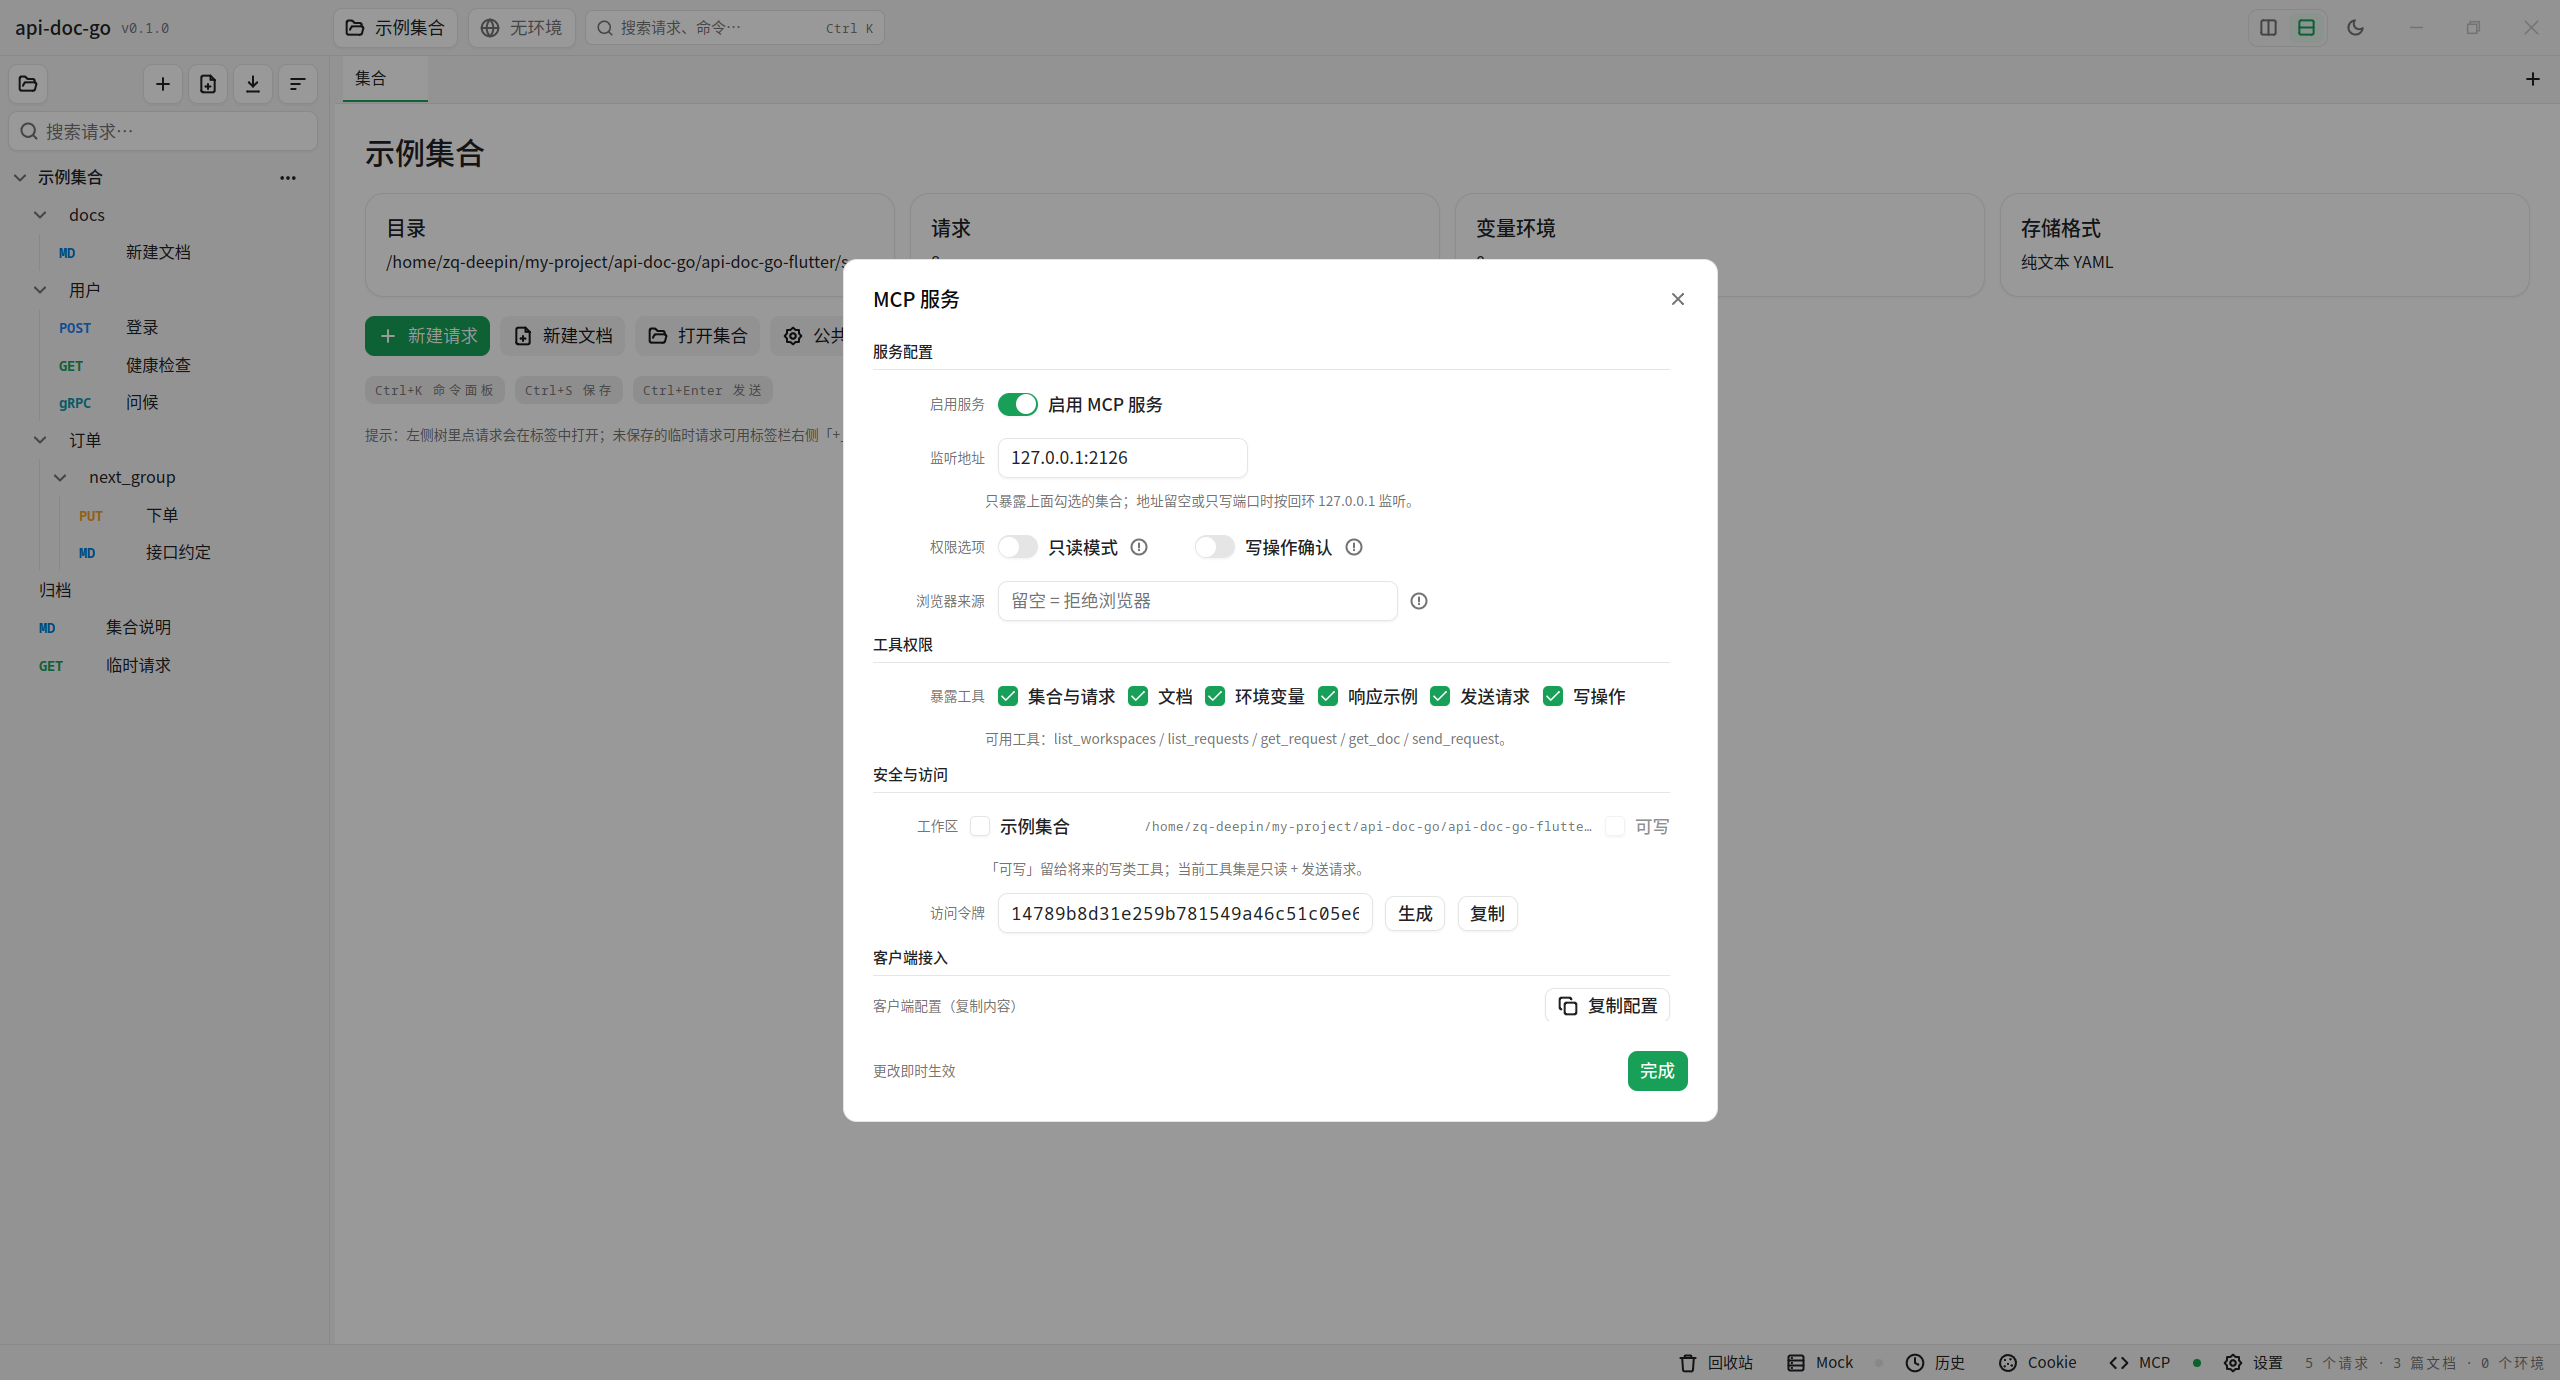
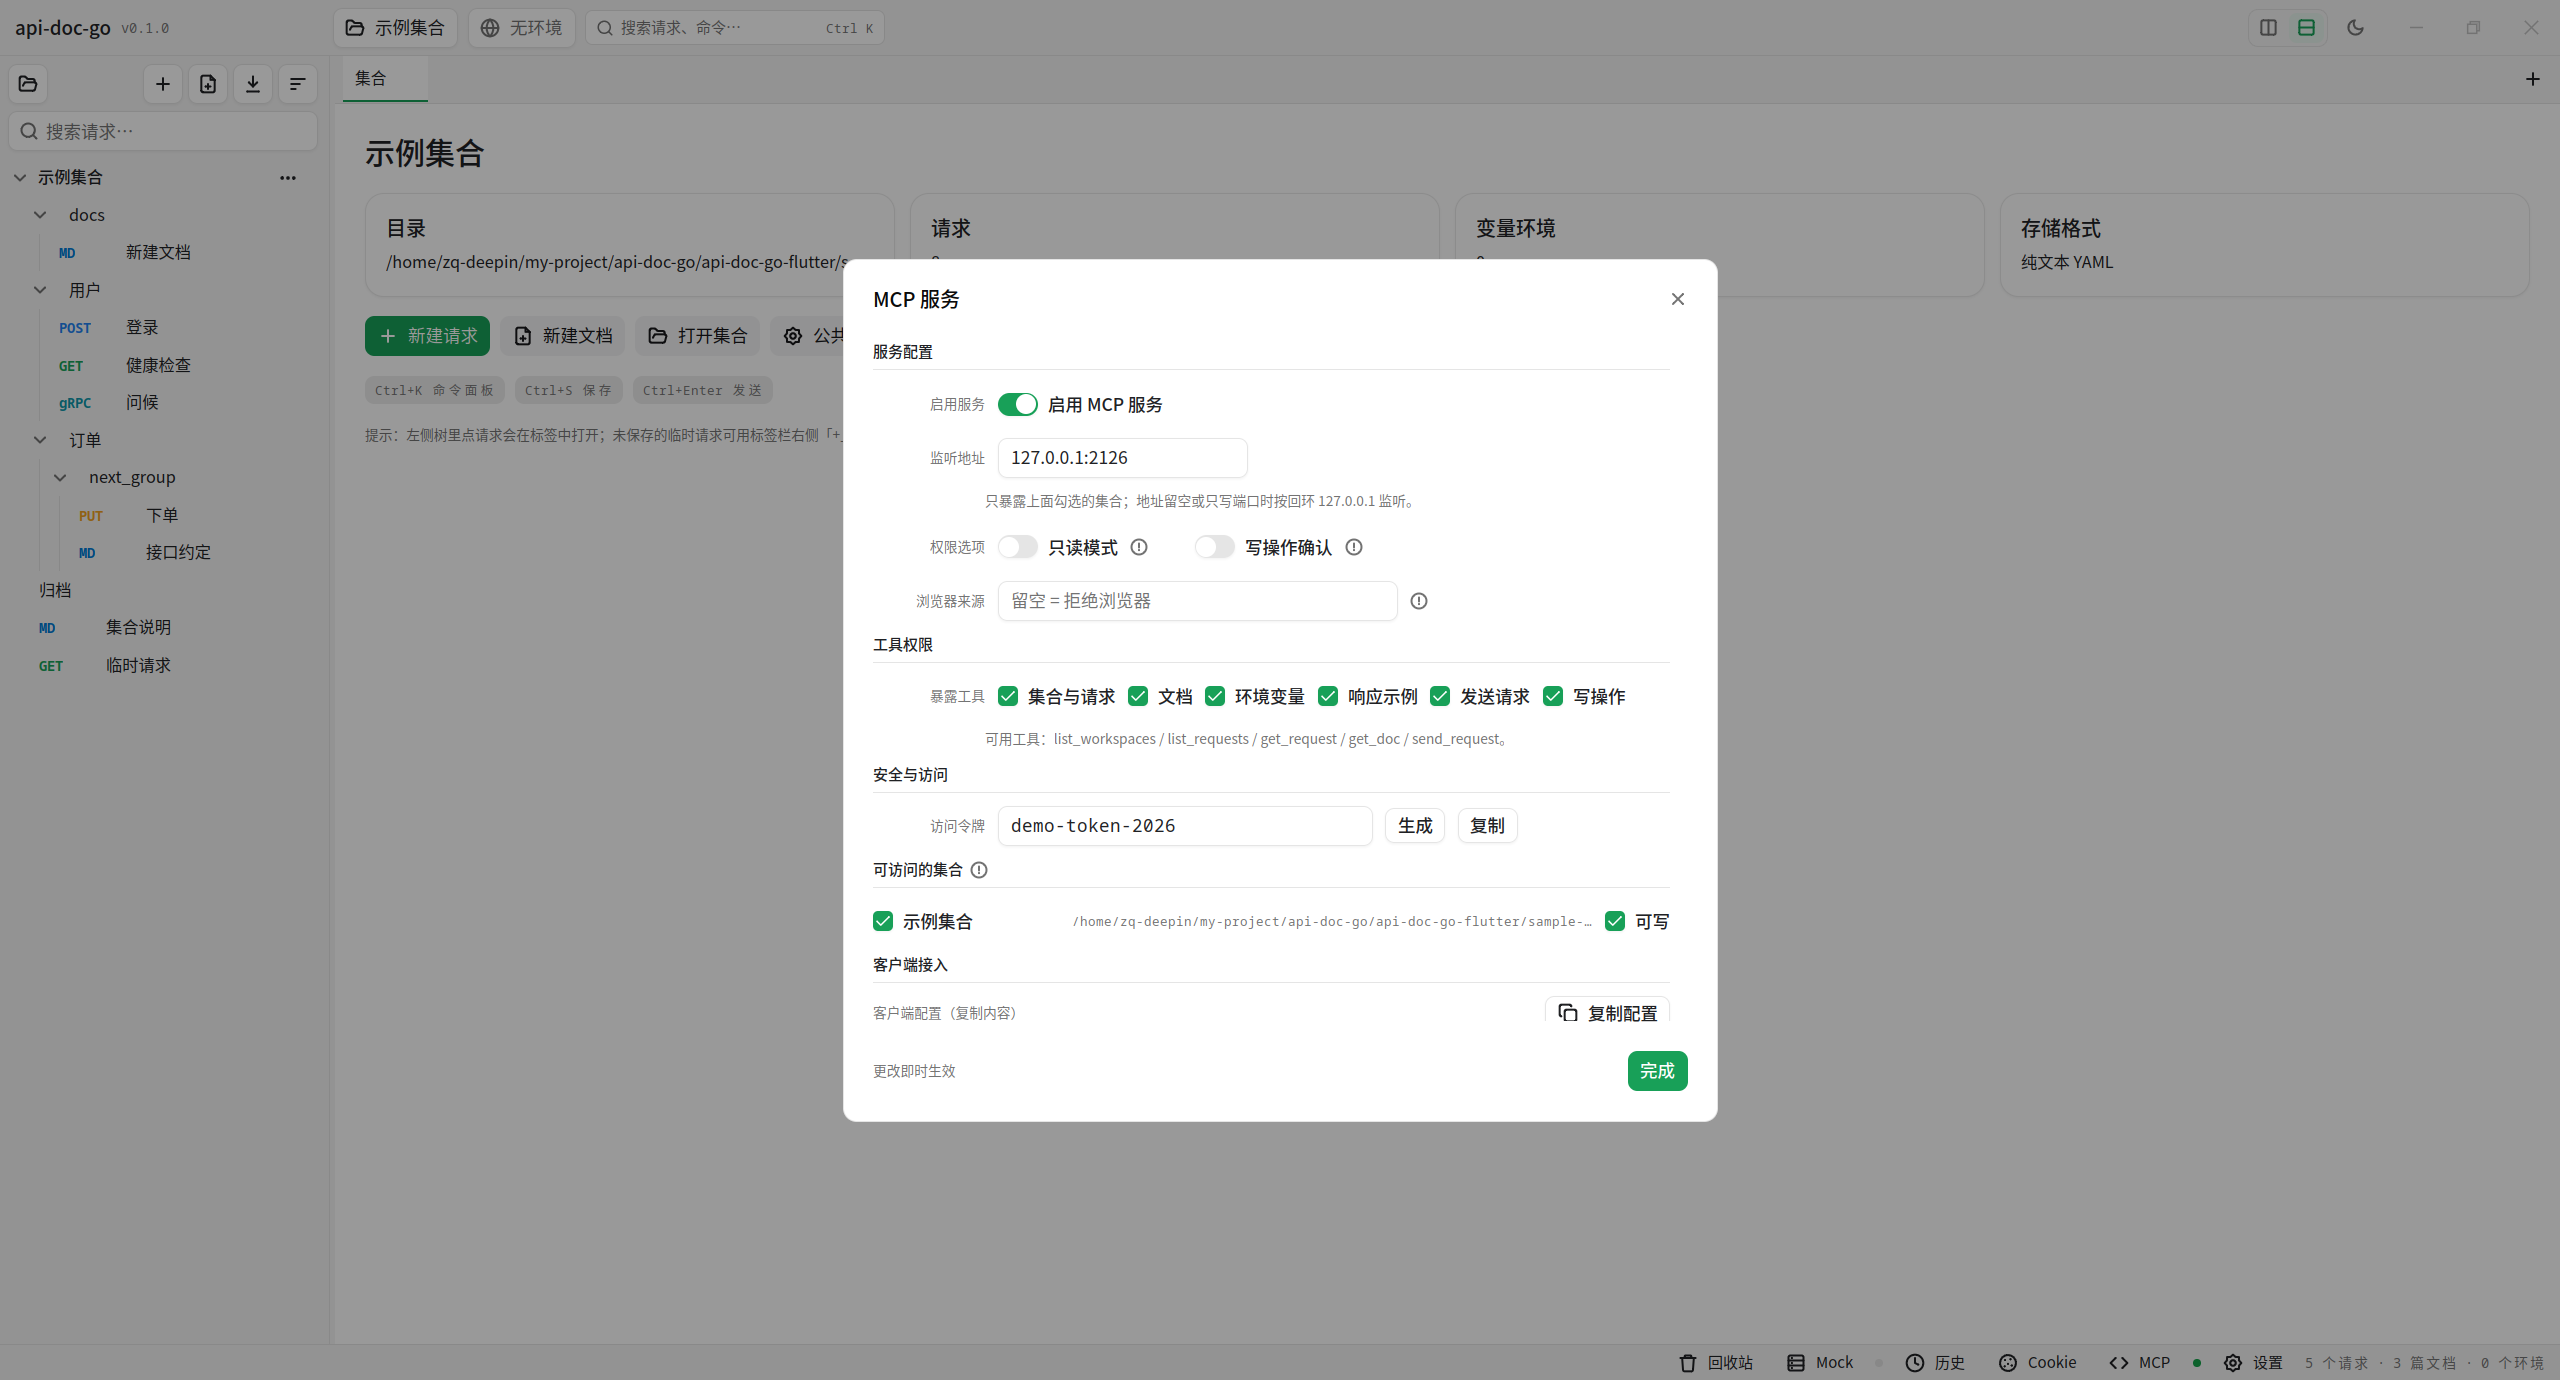
MCP 的集合列表拆成独立一栏：左对齐，「可写」说明进标题旁的 tips
原来集合列表嵌在「安全与访问」里，挂在 90px 标签列后面（缩进一大截），
「可写」的说明还占一行常驻文字。

- 新增 mcpSectionTitleTip：分节标题 + 标题旁 ⓘ（气泡承载整节说明）
- 「可访问的集合」独立成一栏（自己的标题 + 分隔线），插在「安全与访问」之后、
  「客户端接入」之前；列表每行从内容区最左开始，不再留标签列
- 名称列仍定宽 170（多集合时勾选框 / 名称 / 路径 / 可写各成一条竖线）
- 「可写留给将来的写类工具…」从常驻说明移到标题旁的 ⓘ
- 用例：TestMCPSettingsLayout 断言新标题「可访问的集合」与标题旁 tips 的 hit 标签；
  TestMCPConfigFitsPanel 的「不溢出弹窗」改为断言「完成」按钮没被顶出弹窗
  （滚动区里的文本按布局本来就会排到视口下方，按坐标逐条判会误报）
- 截图 doc/viva-mcp.png 更新

Changed region(s): [[0.3438, 0.592, 0.5938, 0.7478], [0.5938, 0.7167, 0.6562, 0.7478], [0.625, 0.6543, 0.6562, 0.6855]]

diff --git a/internal/view/dialogs.go b/internal/view/dialogs.go
@@ -711,7 +711,6 @@ func (m *Model) mcpDialog(c ui.C) {
 
 				// 三、安全与访问
 				m.mcpSectionTitle(c, "安全与访问")
-				m.mcpAllowList(c)
 				// 访问令牌改成可编辑输入框 + 生成 / 复制（需求 4）。
 				ui.Row(c).FillWidth().Gap(px(10)).Items(ui.Center).Children(func() {
 					formLabel(c, "访问令牌")
@@ -730,7 +729,12 @@ func (m *Model) mcpDialog(c ui.C) {
 					}
 				})
 
-				// 四、客户端接入：配置 JSON 常显（不再折叠），行尾一个复制按钮。
+				// 四、集合列表：单独一栏、左对齐，「可写」的说明收进标题旁的 tips。
+				m.mcpSectionTitleTip(c, "可访问的集合",
+					"「可写」留给将来的写类工具；当前工具集是只读 + 发送请求。")
+				m.mcpAllowList(c)
+
+				// 五、客户端接入：配置 JSON 常显（不再折叠），行尾一个复制按钮。
 				m.mcpSectionTitle(c, "客户端接入")
 				ui.Row(c).FillWidth().Gap(px(6)).Items(ui.Center).Children(func() {
 					ui.Text(c, "客户端配置（复制内容）").FontSize(fs(11)).Muted()
@@ -822,6 +826,18 @@ func (m *Model) mcpSectionTitle(c ui.C, title string) {
 	})
 }
 
+// mcpSectionTitleTip 与 mcpSectionTitle 一样，但标题右边跟一个 ⓘ：
+// 整节的说明（比如「可写」是什么意思）收进气泡，不再占一行常驻文字。
+func (m *Model) mcpSectionTitleTip(c ui.C, title, tip string) {
+	ui.Column(c).FillWidth().Gap(px(4)).Children(func() {
+		ui.Row(c).FillWidth().Gap(px(6)).Items(ui.Center).Children(func() {
+			ui.Text(c, title).FontSize(fs(12)).Bold()
+			hintTip(c, tip)
+		})
+		ui.Divider(c)
+	})
+}
+
 // mcpNote 是标签列之后的辅助说明：缩进到控件列，11px 弱化色。
 func (m *Model) mcpNote(c ui.C, text string) {
 	ui.Row(c).FillWidth().Children(func() {
@@ -834,24 +850,14 @@ func (m *Model) mcpNote(c ui.C, text string) {
 // 右侧「可写」决定写类工具能否落盘（当前工具集还没有写工具，先随配置存下来）。
 func (m *Model) mcpAllowList(c ui.C) {
 	if len(m.ui.mcpAllow) == 0 {
-		ui.Row(c).FillWidth().Children(func() {
-			formLabel(c, "工作区")
-			ui.Text(c, "（还没有打开的集合：先在侧栏打开一个目录）").FontSize(fs(11)).Muted()
-		})
+		ui.Text(c, "（还没有打开的集合：先在侧栏打开一个目录）").FontSize(fs(11)).Muted()
 		return
 	}
 	for index := range m.ui.mcpAllow {
 		slot := index
 		row := &m.ui.mcpAllow[slot]
+		// 这一栏从内容区最左开始排（不再留 90px 标签列），集合多时一眼能扫完。
 		ui.Row(c).FillWidth().Gap(px(10)).Items(ui.Center).Children(func() {
-			// 每一行都用同一个 formLabel 占位（首行写标题，其余留空）。
-			// 不能用 ui.Slot 占位：formLabel 是一个 Row，它的实际占位比 Width 多出
-			// 一点内边距，混用会让首行的勾选框比后续行左移十几个像素。
-			label := ""
-			if slot == 0 {
-				label = "工作区"
-			}
-			formLabel(c, label)
 			// 名称列定宽：勾选框自带名字，宽度随名字长短变，路径起点会跟着漂。
 			// 用固定宽度的容器兜住它（不要给 Checkbox 本身 Width+Ellipsis，那会把控件压没）。
 			ui.Row(c).Width(px(mcpWorkspaceNameWidth)).Items(ui.Center).Children(func() {
@@ -865,7 +871,6 @@ func (m *Model) mcpAllowList(c ui.C) {
 			writable.Changed()
 		})
 	}
-	m.mcpNote(c, "「可写」留给将来的写类工具；当前工具集是只读 + 发送请求。")
 }
 
 // settingsAbout 是「关于」：版本与输入法现状。

diff --git a/internal/view/view_test.go b/internal/view/view_test.go
@@ -4141,14 +4141,21 @@ func TestMCPConfigFitsPanel(t *testing.T) {
 	if last >= 0 && last-first > 160 {
 		t.Fatalf("JSON 没被滚动区裁住：%0.f → %0.f", first, last)
 	}
-	// 弹窗（700x690，1180x760 里居中）内的文本不该越过底边跑到窗口上。
-	for _, text := range driver.Snapshot().Texts {
-		if text.Bounds.X < 240 || text.Bounds.X > 940 {
+	// 真正要守的是「JSON 不会把底部操作栏顶出弹窗」：
+	// 滚动区里的文本按布局本来就会排到视口下方（那正是可滚动的前提），
+	// 所以这里看去底栏按钮的位置，而不是逐条文本的布局坐标。
+	found := false
+	for _, hit := range driver.Snapshot().Hits {
+		if hit.Label != "完成" {
 			continue
 		}
-		if bottom := text.Bounds.Y + text.Bounds.Height; bottom > 720 && text.Bounds.Y < 715 {
-			t.Fatalf("面板里有文本溢出弹窗底边：%q 底边 %.0f", text.Value, bottom)
+		found = true
+		if bottom := hit.Bounds.Y + hit.Bounds.Height; bottom > 725 {
+			t.Fatalf("「完成」被内容顶出弹窗：底边 %.0f", bottom)
 		}
+	}
+	if !found {
+		t.Fatalf("面板里没有「完成」按钮：%v", painted(driver))
 	}
 }
 

diff --git a/internal/view/v069_test.go b/internal/view/v069_test.go
@@ -186,12 +186,17 @@ func TestMCPSettingsLayout(t *testing.T) {
 	for _, want := range []string{
 		"服务配置", "工具权限", "安全与访问", "客户端接入",
 		"启用服务", "监听地址", "权限选项", "只读模式", "写操作确认", "浏览器",
-		"暴露工具", "工作区", "访问令牌", "客户端配置（复制内容）", "浏览器来源",
+		"暴露工具", "访问令牌", "可访问的集合", "客户端配置（复制内容）", "浏览器来源",
 	} {
 		if !shows(driver, want) {
 			t.Fatalf("MCP 面板缺 %q：%v", want, painted(driver))
 		}
 	}
+	// 「可写」的说明收进集合栏标题旁的 ⓘ（hit 的标签就是说明文字）。
+	if !hasControl(driver, "「可写」留给将来的写类工具；当前工具集是只读 + 发送请求。") {
+		t.Fatalf("集合栏标题旁应有「可写」说明的 tips：%v", painted(driver))
+	}
+
 	// 令牌是输入框（可编辑）+ 生成 / 复制（需求 4）。
 	if !hasControl(driver, "生成") || !hasControl(driver, "复制") {
 		t.Fatalf("令牌行应有生成与复制按钮：%v", painted(driver))
